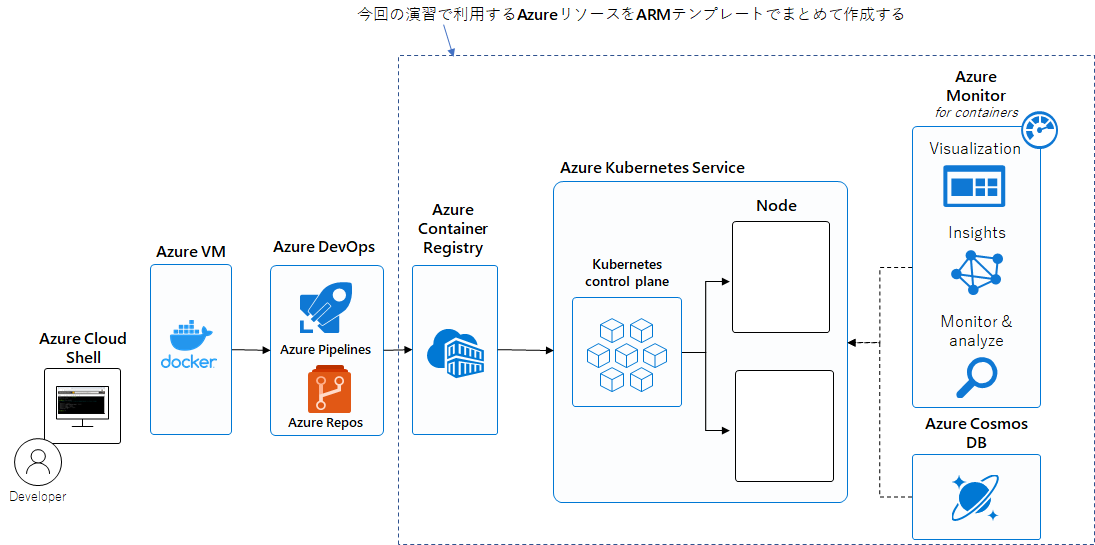
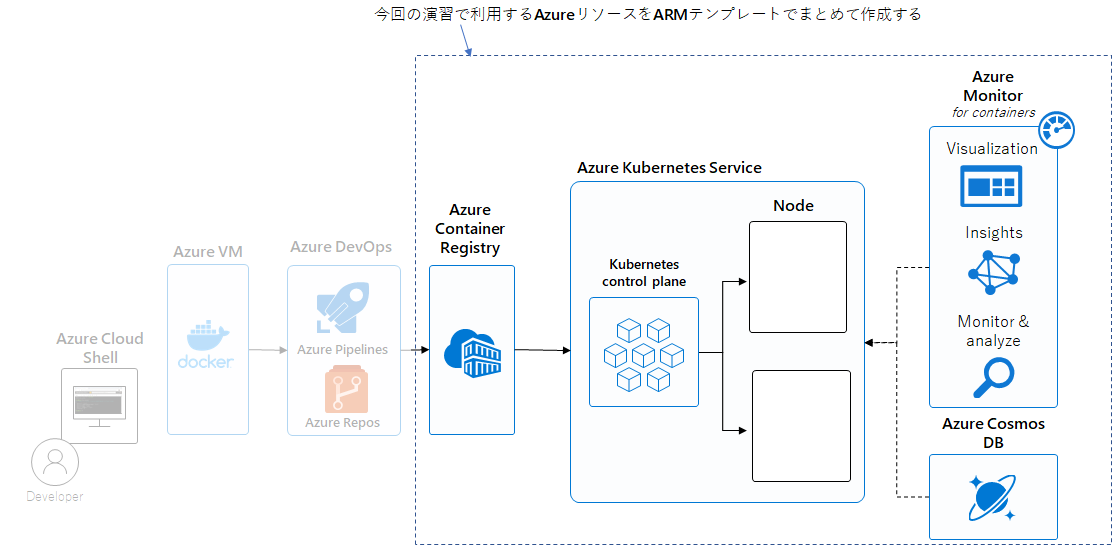
Update: Azure DevOps

diff --git a/Hands-on lab/Before the HOL - Cloud-native applications.md b/Hands-on lab/Before the HOL - Cloud-native applications.md
@@ -1091,6 +1091,9 @@ Azure Kubernetes Service には、Azure API とやり取りをするために、
 
 FabMedical から、スターター ファイルが提供されています。このファイルでは、FabMedical の顧客である Contoso Neuro の Web サイトのコピーを取得し、スピーカーやセッションを提供するコンテンツ API で単一の Node.js から特定の Web サイトへと、このコピーをリファクターしています。リファクターされたこのコードを出発点として、Web サイトのコンテナー化を検証します。Web サイトと API を Docker コンテナーとして実行し、Azure Kubernetes Service 環境内で管理する開発ワークフローを確認しますが、リファクターされたコードによって、この概念実証 (PoC) を簡単に完了できます。
 
+
+![azuredevops](media/azuredevops.png)
+
 1. **新しい** Azure Cloud Shell コンソールを開きます。
 
 2. FabMedical のソース コード フォルダーに移動し、フォルダーの内容を一覧表示します。
